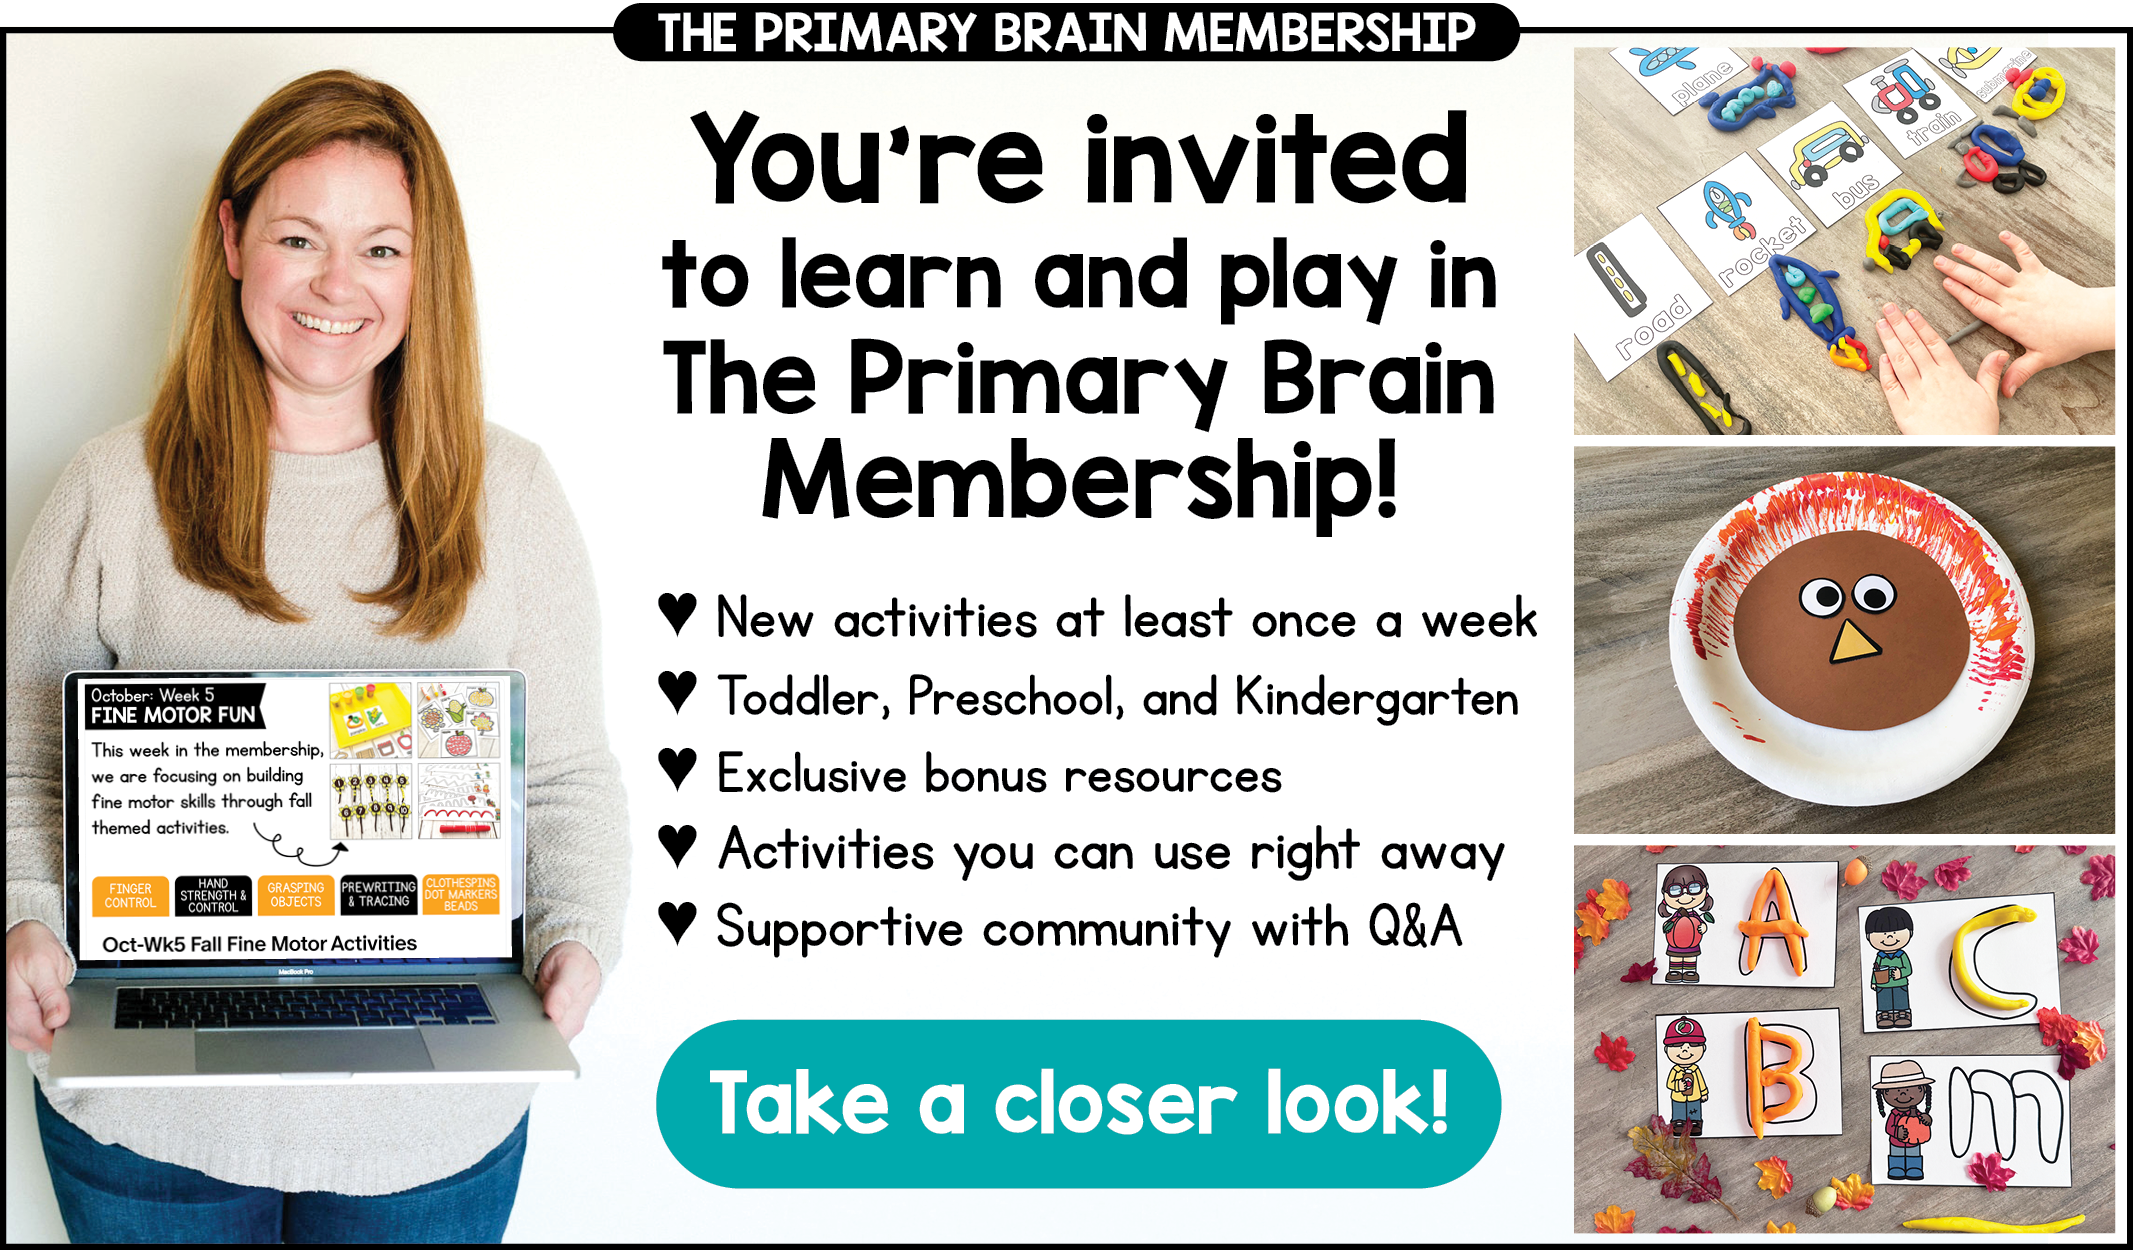
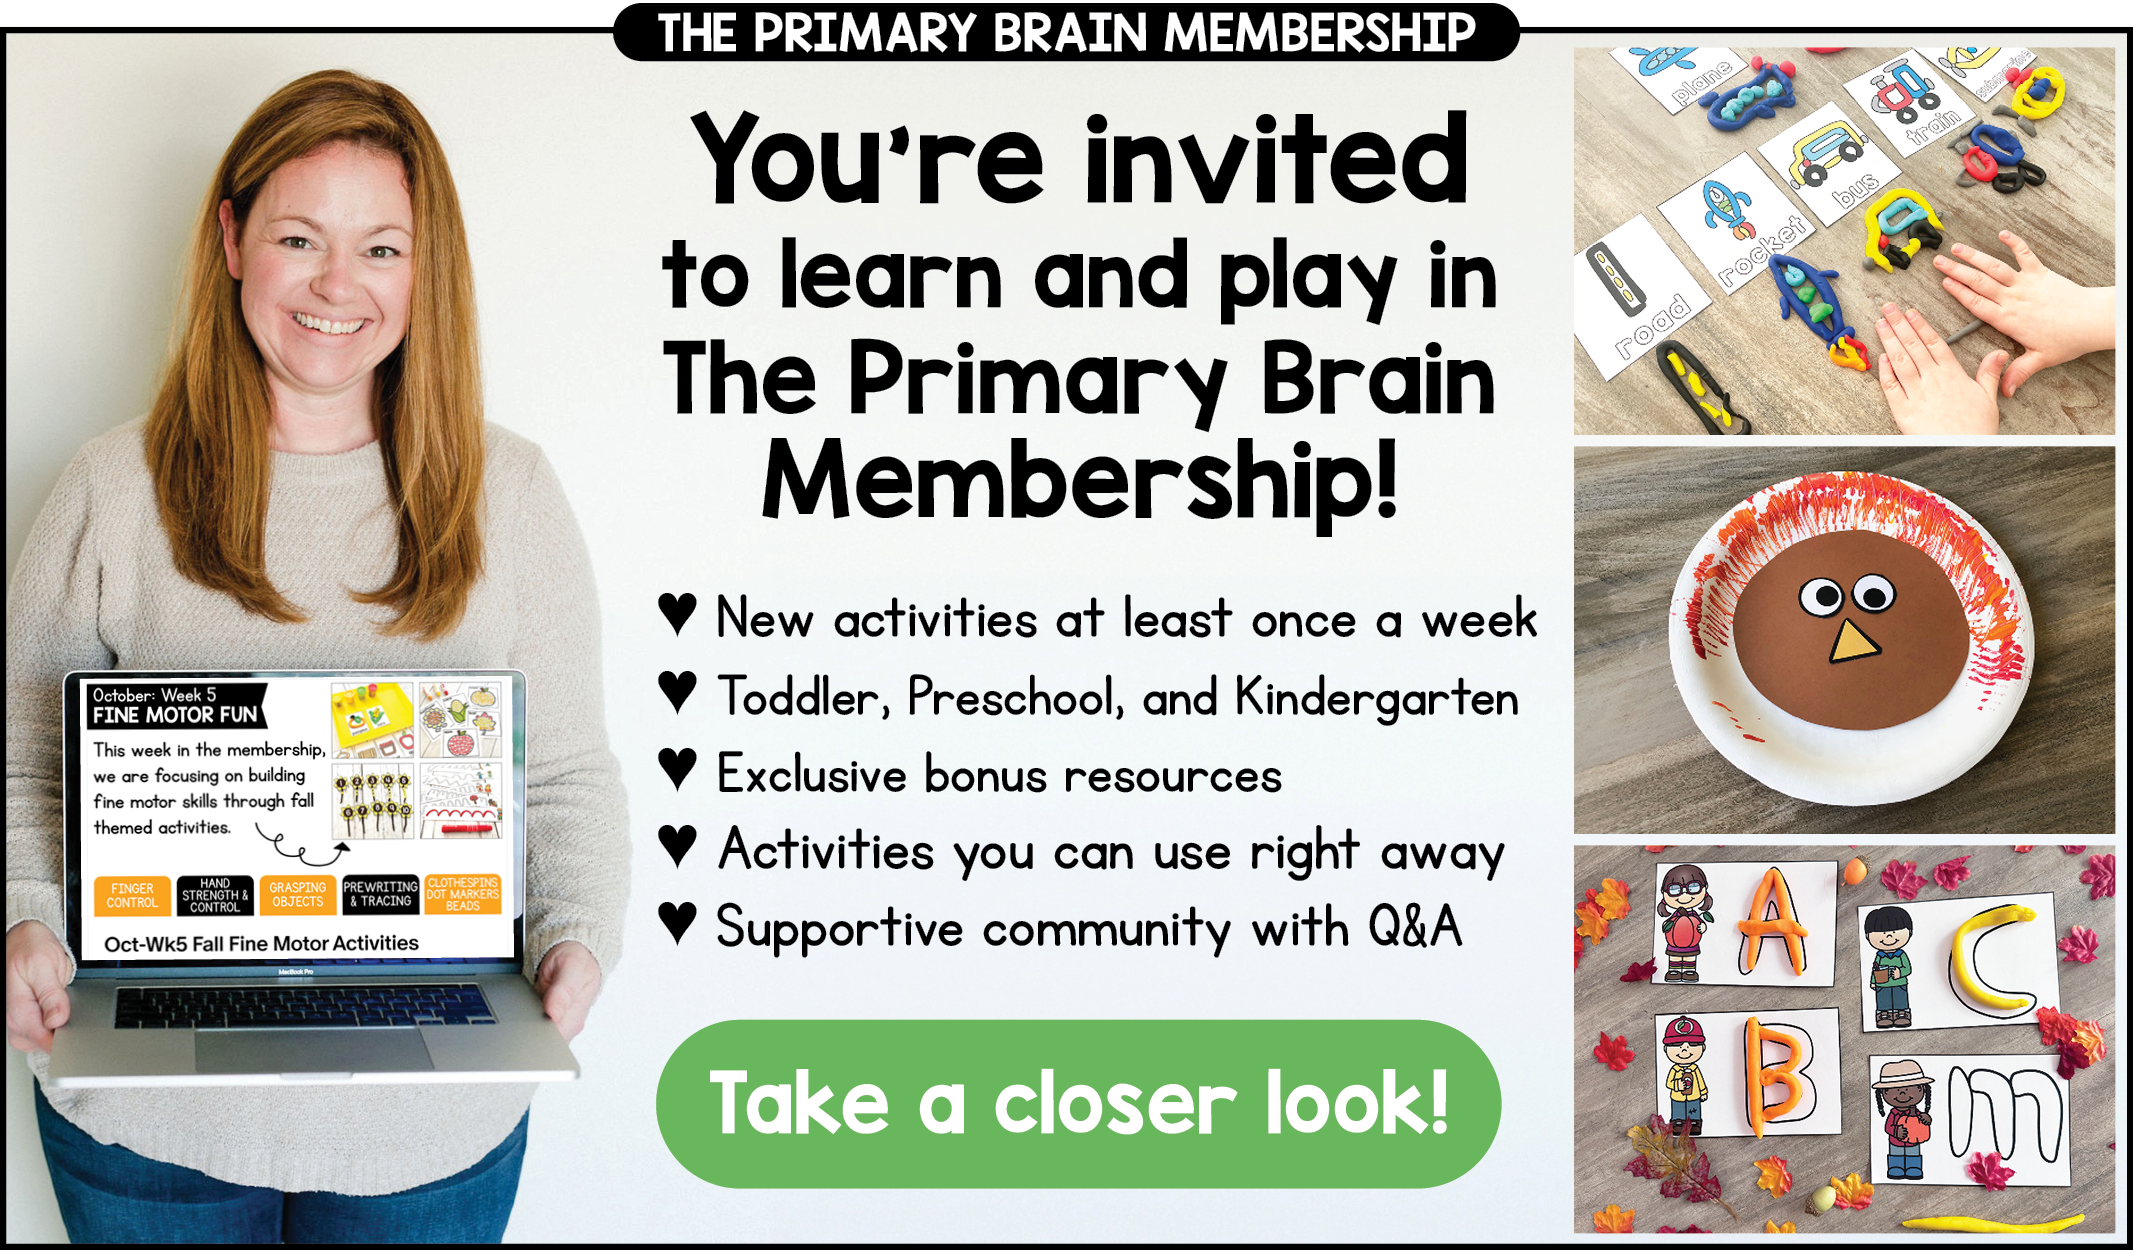
UPDATE membership container and add to membership page

diff --git a/menu/membership.md b/menu/membership.md
@@ -68,6 +68,8 @@ Hi! I'm Laurin Brainard, a former first grade teacher turned educational resourc
 
 I created this membership to help you feel supported by curating simple activities you can do at home, so you can spend more of your time learning and playing with your children. I hope you will join us inside the membership!
 
+[![Join Our Membership]({{ site.github.url }}/assets/img/MembershipContainer_JOINHEREInPostLinktoMembershipPage.png)](https://theprimarybrain.com/menu/membership/)
+
 ## FAQs
 ### Which membership should I choose?
 Choose Toddler, Preschool, or Kindergarten based on the age and learning needs of your child. If you’d like access to all three paths, take a look at the [All-Access Pass](https://www.patreon.com/16905425/join).
